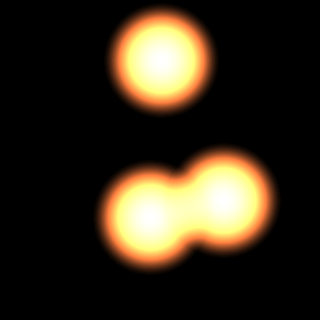
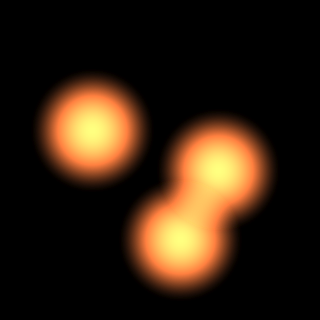
modify parameter

diff --git a/metaball.js b/metaball.js
@@ -3,6 +3,7 @@ var canvasmetaball = {};
 (function () {
     var RADIUS = 64; // ボールの半径
     var MAX_PIXELS = (2 * RADIUS) * (2 * RADIUS); // 円を囲む四角形のピクセル数
+    var MAX_PALETTE = 256; // パレット数最大
     var Metaball = function(x, y, vx, vy) {
         this.x = x;
         this.y = y;
@@ -22,9 +23,9 @@ var canvasmetaball = {};
                     // 円内のピクセルの色（パレット番号）を決定している
                     z = Math.sqrt(z);
                     var t = z / RADIUS;
-                    no = Math.floor(256 * (t * t * t * t));
-                    if (no > 255)
-                        no = 255;
+                    no = Math.floor(MAX_PALETTE * (t * t * t * t));
+                    if (no > MAX_PALETTE - 1)
+                        no = MAX_PALETTE - 1;
                     if (no < 0)
                         no = 0;
                 }
@@ -37,7 +38,6 @@ var canvasmetaball = {};
         var palette = new Palette();
         
         for (let i = 0; i < MAX_PIXELS; ++i) {
-            
             let sx = this.x + this.pixels[i]['dx'];
             if (sx < 0 || sx > width)
                 continue;
@@ -48,8 +48,7 @@ var canvasmetaball = {};
             // ボールの色をイメージのRGBへ加算する
             let no = this.pixels[i]['no'];
             let color = palette.getColor(no); // パレット番号からRGBを取り出す
-            
-            //var p = context.createImageData(1, 1);
+
             let index = (sy * width * 4) + (sx * 4);
             p.data[index + 0] = p.data[index + 0] + color[0];
             p.data[index + 1] = p.data[index + 1] + color[1];
@@ -80,9 +79,15 @@ var canvasmetaball = {};
             this.vy = -this.vy;
         }
     };
+    Metaball.prototype.isHit = function(px, py) {
+        return ((this.x - px) * (this.x - px) + (this.y - py) * (this.y - py) <= RADIUS * RADIUS);
+    };
+    Metaball.prototype.turn = function() {
+        this.vx = -this.vx;
+        this.vy = -this.vy;
+    };
     canvasmetaball.Metaball = Metaball;
     
-    var MAX_PALETTE = 256;
     var Palette = function() {
         this.red = new Array(MAX_PALETTE);
         this.green = new Array(MAX_PALETTE);
@@ -93,11 +98,11 @@ var canvasmetaball = {};
             r = g = b = 0;
             // ここのr,g,bの順番を変えると違う色のメタボールができる
             if (i >= 0)
-                r = 4 * i;
-            if (i >= 2)
-                g = 4 * (i / 2);
+                r = 2 * i;
             if (i >= 4)
-                b = 4 * (i / 4);
+                g = 4 * (i / 4);
+            if (i >= 8)
+                b = 4 * (i / 8);
 
             if (r > 255)
                 r = 255;
@@ -122,9 +127,9 @@ var canvasmetaball = {};
 
 var main = function() {
     var metaballs = new Array(3);
-    metaballs[0] = new canvasmetaball.Metaball(150, 100,  2,  1);
-    metaballs[1] = new canvasmetaball.Metaball(100, 200, -1, -2);
-    metaballs[2] = new canvasmetaball.Metaball(150,  60,  3, -2);
+    metaballs[0] = new canvasmetaball.Metaball( 50, 100, -2,  2);
+    metaballs[1] = new canvasmetaball.Metaball(120, 200, -1, -2);
+    metaballs[2] = new canvasmetaball.Metaball(150,  60,  2, -1);
     
     var canvas = document.getElementById('canvas');
     canvas.width = 320;
@@ -139,4 +144,12 @@ var main = function() {
         }
         setTimeout(arguments.callee, 1000 / 60);
     })();
+    
+    canvas.addEventListener('click', function(e) {
+        for (let i = 0; i < metaballs.length; ++i) {
+            if (metaballs[i].isHit(e.clientX, e.clientY)) {
+                metaballs[i].turn();
+            }
+        }
+    }, false);
 }();
